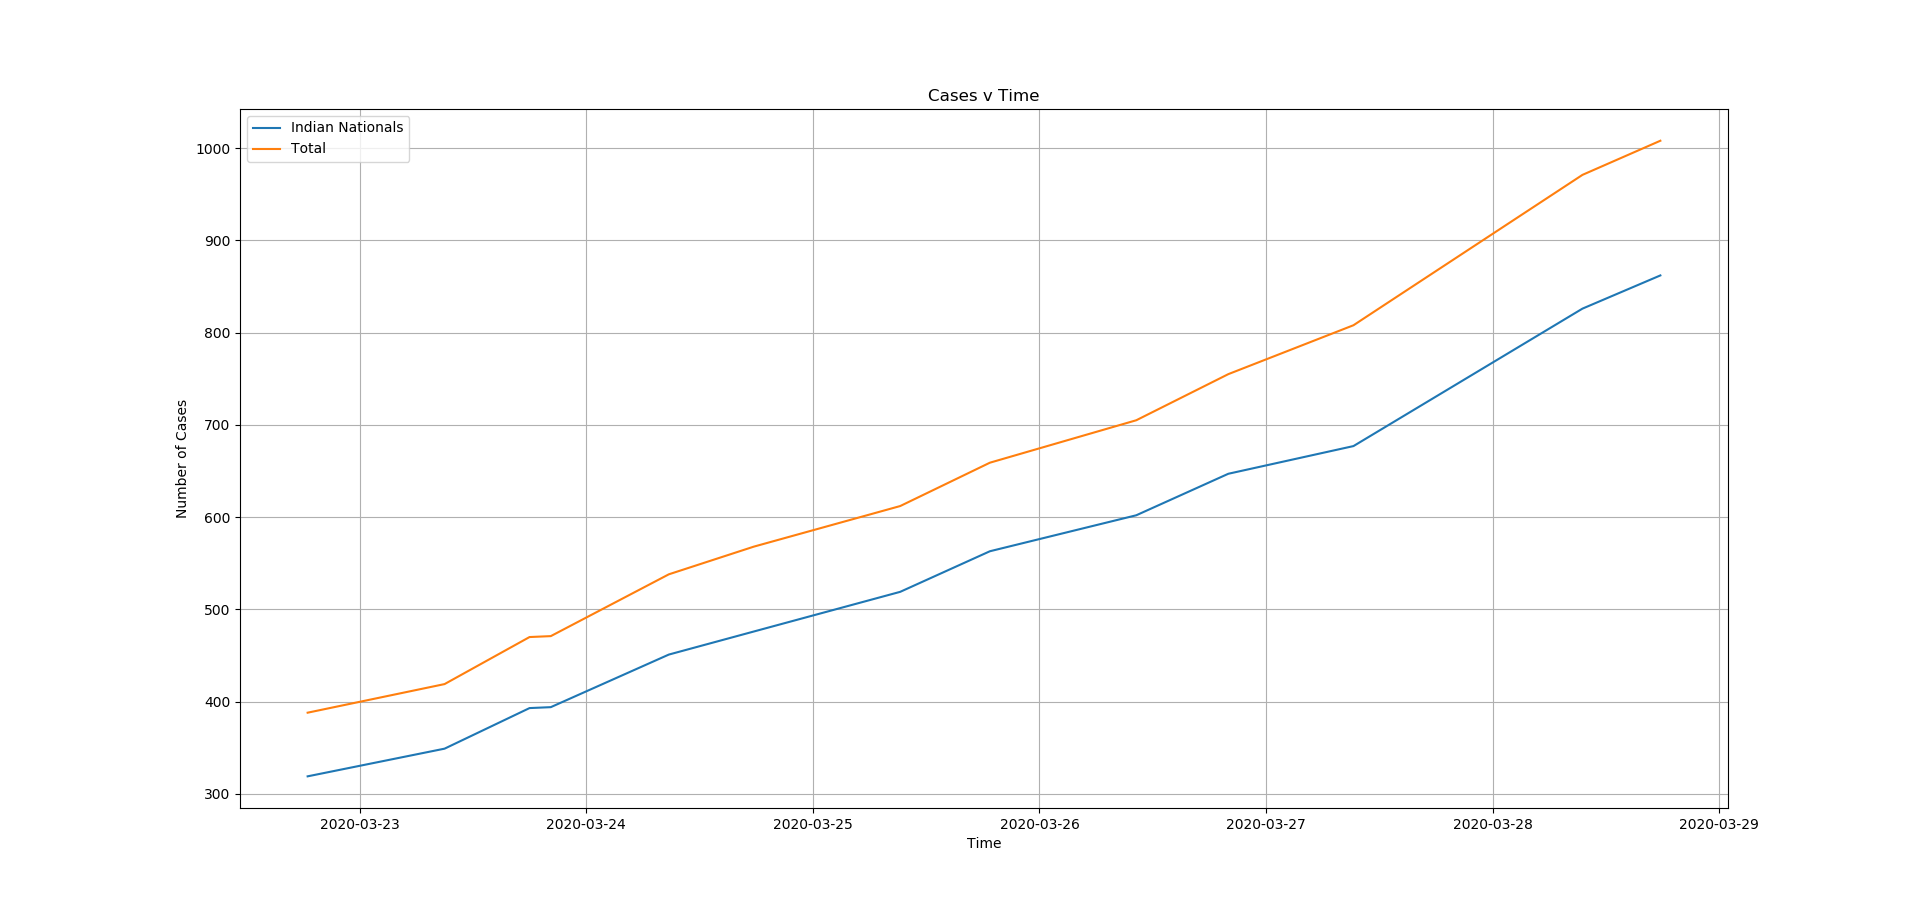
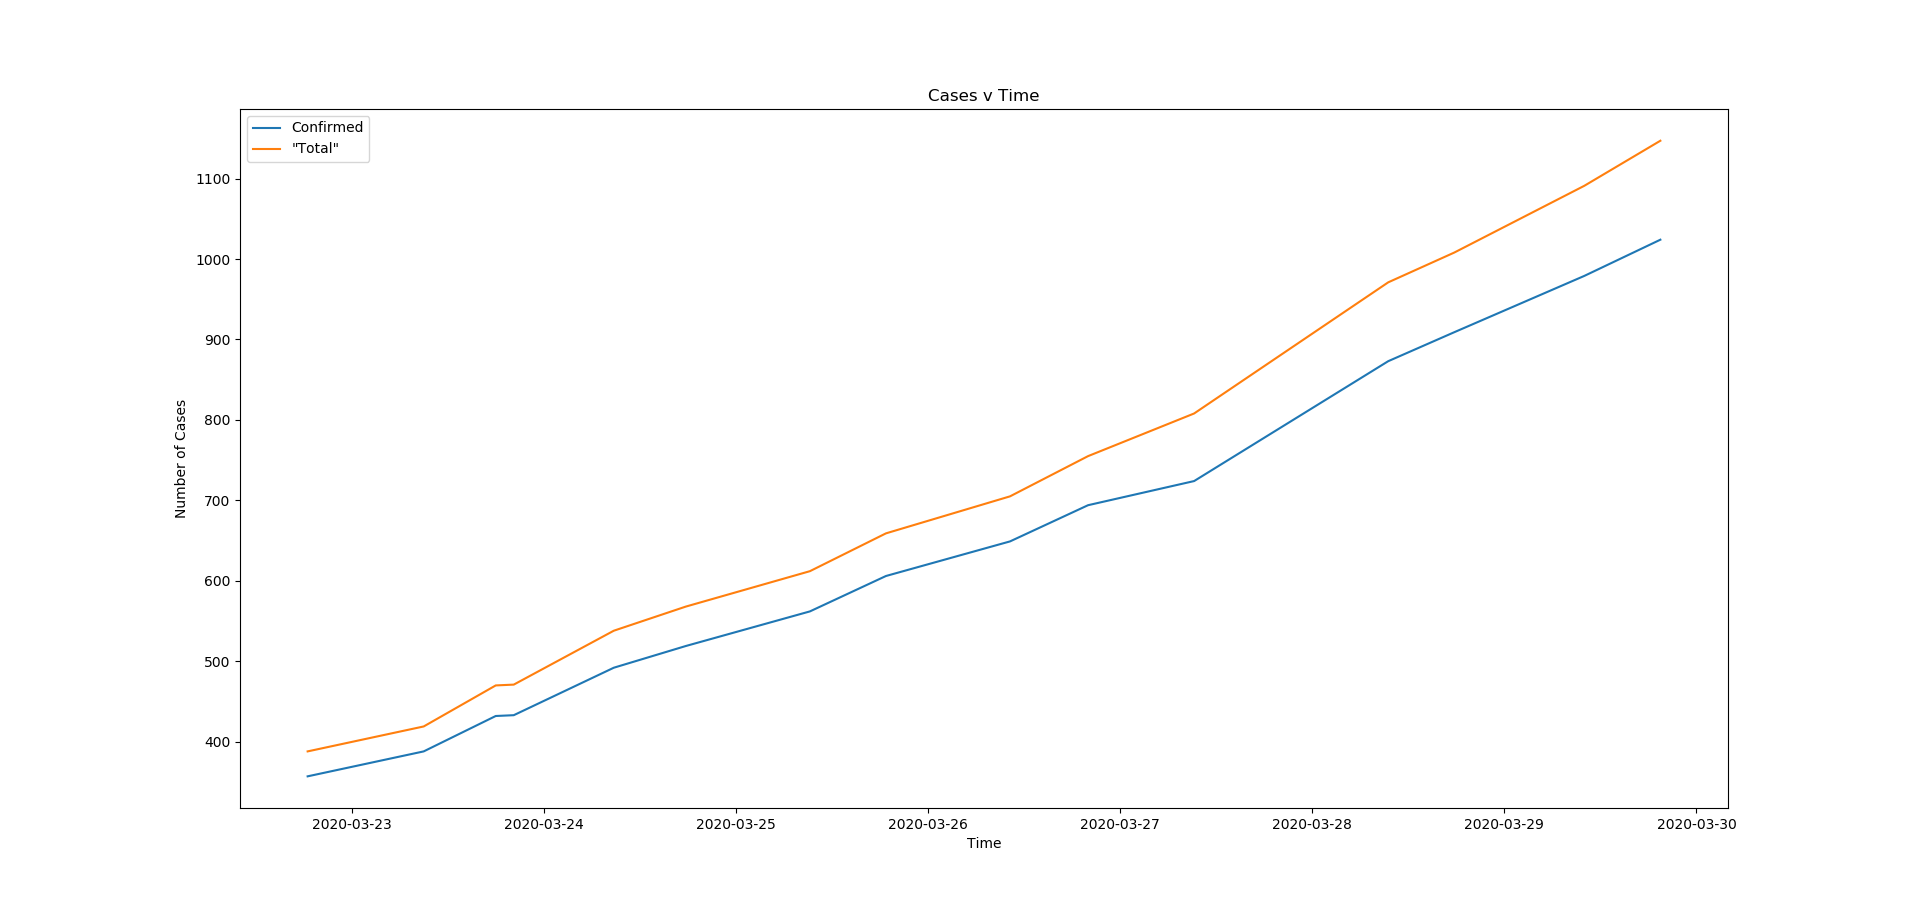
New graph and grapher

diff --git a/record_grapher.py b/record_grapher.py
@@ -21,5 +21,10 @@ dates = df['Time']
 dtimes = dt(dates)
 
 final_dates = mpdt.date2num(dtimes)
-plt.plot_date(final_dates, df['Confirmed'], '-')
+plt.title("Cases v Time")
+plt.xlabel("Time")
+plt.ylabel("Number of Cases")
+plt.plot_date(final_dates, df['Confirmed'], '-', label = "Confirmed")
+plt.plot_date(final_dates, df['"Total"'], '-', label = '"Total"')
+plt.legend()
 plt.show()
